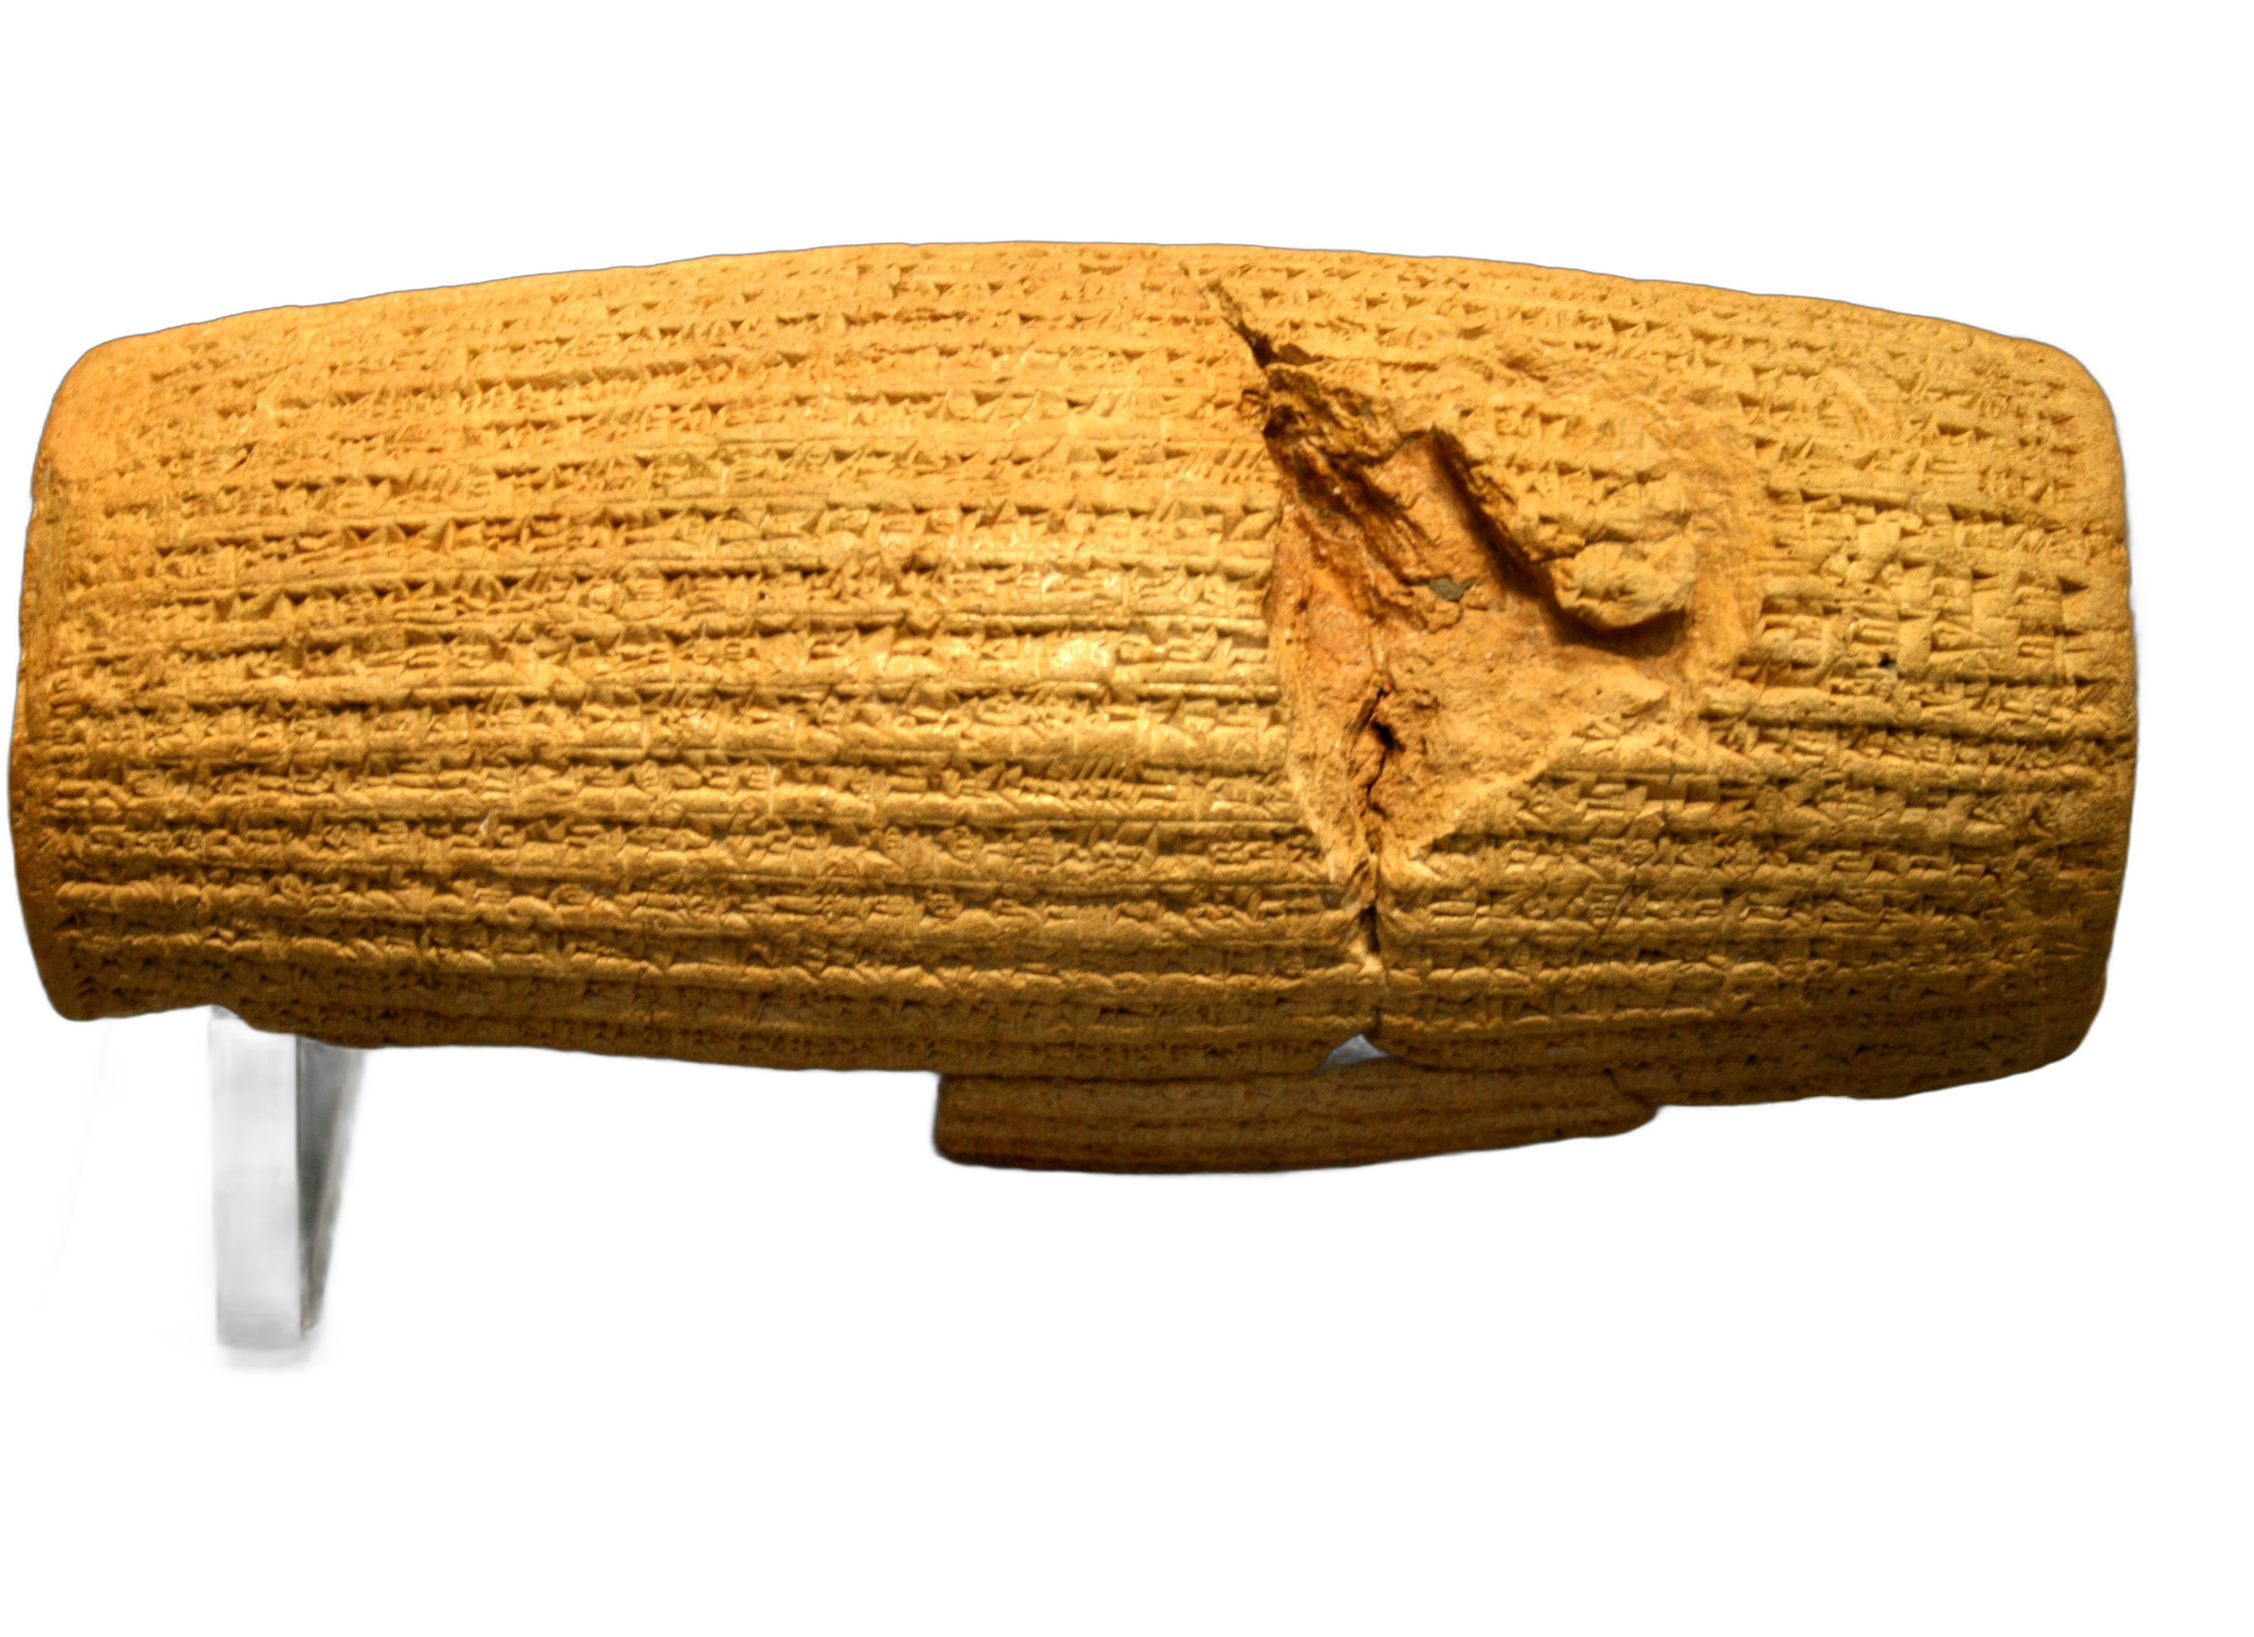
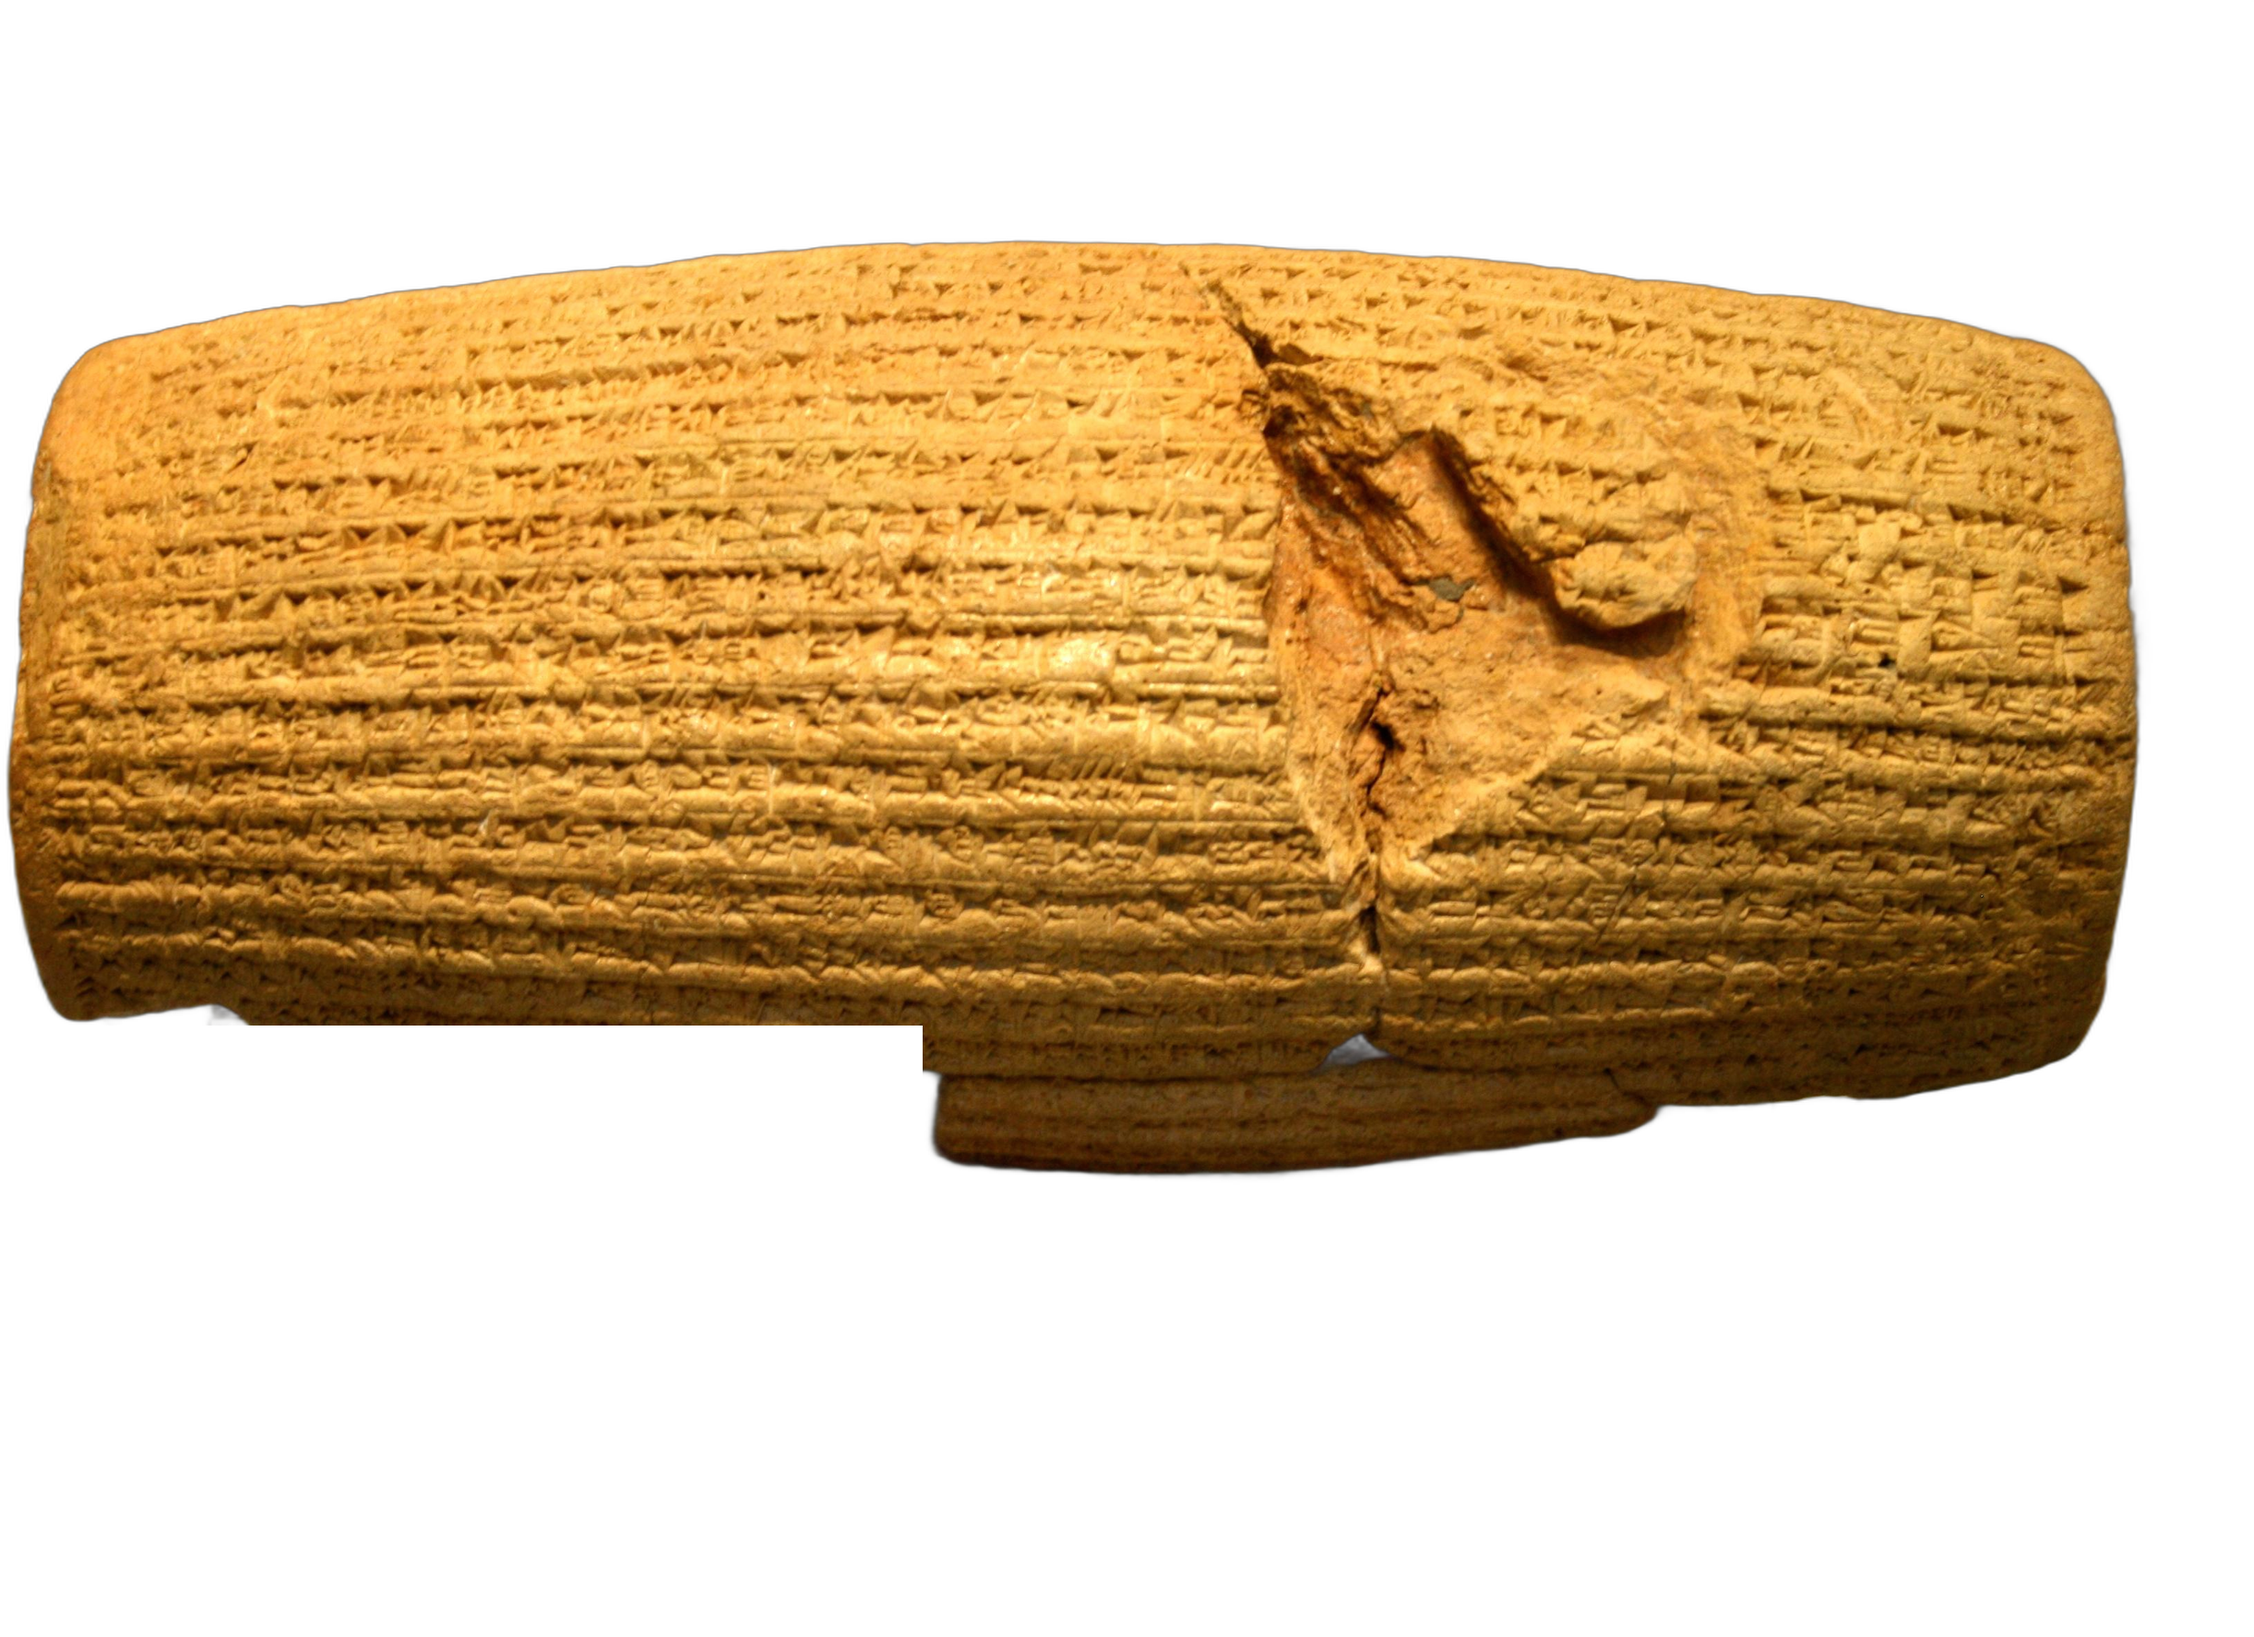
Persia final: tail, master cold open script, R04 window, cylinder stand removed, preset via env
Claude-Session: https://claude.ai/code/session_01Eqps5UczpUq3TCQPKvmR2Y

Changed region(s): [[0.0933, 0.6197, 0.4355, 0.8366]]

diff --git a/persia/film/build.py b/persia/film/build.py
@@ -4,7 +4,7 @@ FPS = 60; CARD = 3.5; BED = 0.07          # clip sound ceiling: 7 % of the level
 # Master quality (standard since episode 2): everything is composed at 1920x1080, then the finished chapter is scaled to 2560x1440 and
 # encoded near-transparently. YouTube gives uploads above 1080p a better codec and several times the bitrate, so 1080p playback is cleaner too.
 # 60 fps: maps and graphics are rendered at a true 60; 24 fps reconstruction clips are brought up by frame repetition (2-3 cadence), never by interpolation.
-OUT_W, OUT_H = 2560, 1440; CRF = "14"; PRESET = "slow"
+OUT_W, OUT_H = 2560, 1440; CRF = "14"; PRESET = os.environ.get("PRESET", "medium")
 DRAFT = bool(os.environ.get("DRAFT"))          # draft: 1080p, fast encode, missing clips are skipped and marked
 if DRAFT: OUT_W, OUT_H, CRF, PRESET = 1920, 1080, "21", "veryfast"
 ROOT = os.path.dirname(os.path.abspath(__file__))

diff --git a/persia/film/chapters.py b/persia/film/chapters.py
@@ -136,7 +136,7 @@ def g5(t):
         plaque(d, cx, 960, "THE OLD MAIN POST OFFICE IN NEW YORK", 46, a * r(t, 48.4), sp=3)
     return im
 S5 = dict(n=5, gfx=g5, gfx_windows=[(34.3, 51.9)],
-          overlays=[(M("05a_the_road"), 0, 34.5, False), (RC("R04"), 22.2, 34.3, True), (RC("R20"), 45.3, 51.7, True), (M("05c_canal"), 51.8, 70, False)],
+          overlays=[(M("05a_the_road"), 0, 34.5, False), (RC("R04"), 24.3, 34.3, True), (RC("R20"), 45.3, 51.7, True), (M("05c_canal"), 51.8, 70, False)],
           stills=[(plaque_still("farley", cx, 960, "THE OLD MAIN POST OFFICE IN NEW YORK", 46), 48.4, 51.6),
                   (panel("stele", [("V12_shaluf_stele", 300, 760, 520, True)]), 56.0, 64.8)])
 
